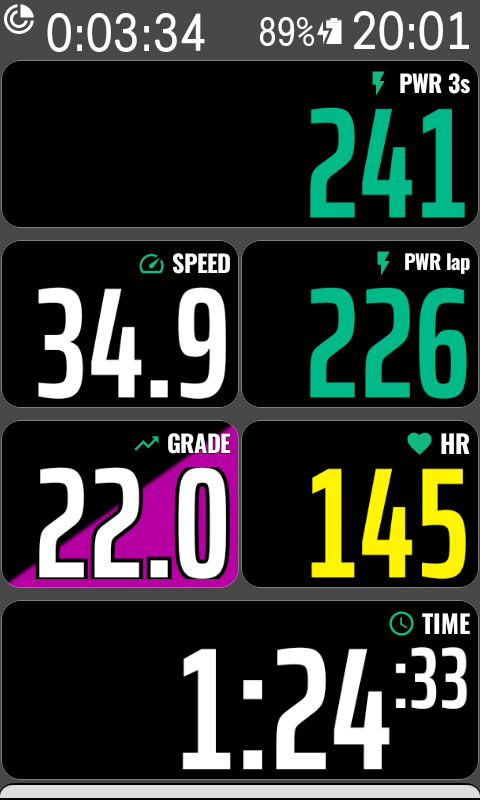
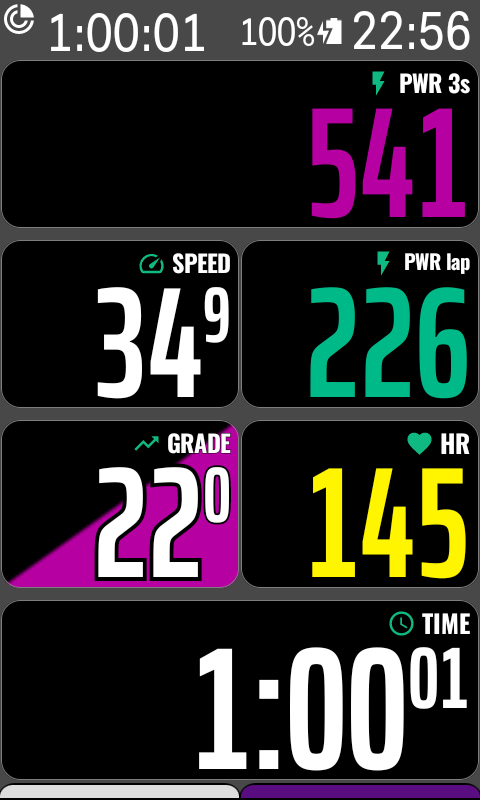
docs: fold the new work into 1.1.0, and reshoot at the defaults
1.1.0 was never tagged and lives only on this branch, so this belongs in that
entry rather than in a successor nobody would have anything to compare against.

Two claims in the README did not survive checking. "Around 20% taller" for the
demoted seconds is not true in general: measured on device, that field is
height-limited on a full-width tile, so raising the seconds took it from 365px
wide to 270px and left the height at 156px against 155px. The text now says
what actually happens, which depends on whether width or height is the binding
constraint. The elapsed-time section still described the old fixed behaviour
with the colon kept.

Screenshots are reshot at the defaults a fresh install gets, and the settings
were read back off the device before capturing rather than assumed.

The settings screen scrolling and the clipped wedge outline are deliberately
not listed as fixes: both were introduced and resolved inside this unreleased
version, so no rider ever met them. Development history, not release notes.

Claude-Session: https://claude.ai/code/session_0142tqkb3eEG9sx2Pt6EGNCy

diff --git a/CHANGELOG.md b/CHANGELOG.md
@@ -29,6 +29,31 @@ Karoo shows in its own update flow.
   flipping colour wholesale, which no single threshold could get right.
 - Turning zone colouring off now turns the grade wedge off too, on the reading that a rider who
   wants no colour means everywhere.
+- **Raised decimals.** A value's decimal, or a ride time's seconds, drawn small and raised --
+  34⁹ rather than 34.9, 1:34¹⁷ rather than 1:34:17 -- with the point or colon dropped, because the
+  raised digits already say what they are and the separator's width is width the number can have
+  instead. On by default, and it replaces the old fixed behaviour where elapsed time raised its
+  seconds and nothing else could.
+- The settings screen opens with a card in the Karoo's own style saying where to add the fields,
+  and scrolls now that there is more on it than fits a 480x800 screen.
+- A new icon: the app at icon size, a field card carrying one number with a raised decimal, drawn
+  from the bundled Saira's own outlines. The old one was a white square on a white list row,
+  which left three black bars floating with nothing around them.
+
+### Changed
+
+- **Time - Elapsed** reads h:mm:ss throughout, so the first hour of a ride shows 0:34:56 rather
+  than 34:56 and a clock that has not started reads 0:00:00 rather than a pair of dashes. The
+  field is sized against a "0:00:00" template either way, so the leading hour costs no room --
+  what it buys is a field that does not change shape the moment the ride passes an hour.
+- Each field's bitmap is now rasterised at the size it is displayed at, taken from the view size
+  Karoo reports, instead of one fixed size for every tile. Tiles range from 238x142 to 478x288,
+  so a single size was drawing about 1.7x more pixels than a half tile can show while stretching
+  1.6x on the largest one. Nothing moves on screen; a half-width field allocates and ships 42%
+  fewer bytes per update, and the largest tiles stop being upscaled.
+- Redundant redraws are dropped. Karoo sends a sample whether or not the value moved, and a
+  field whose displayed state is unchanged no longer draws a bitmap or crosses a process
+  boundary to say so.
 
 ### Notes
 
@@ -37,7 +62,8 @@ Karoo shows in its own update flow.
   under the SIL Open Font License 1.1; see [OFL.txt](OFL.txt).
 - A non-finite grade takes the lowest band and the floor wedge height rather than the loudest
   colour and an undefined path.
-- Fields other than Grade render exactly as before when no wedge is present.
+- The wedge is Grade's alone: every other field takes the same drawing path it always did, and
+  the wedge hook defaults to nothing.
 
 ## [1.0.1] - 2026-08-24
 

diff --git a/README.md b/README.md
@@ -58,10 +58,24 @@ Without a weight to divide by they show `--` rather than a number that would rea
 
 ### Elapsed time
 
-The seconds are drawn about half size and raised, so `1:34:17` reads as a large **1:34** with a
-small `:17` after it. Hours and minutes are what you read at a glance; the seconds only need to
-be present. Demoting them leaves the rest of the value around 20% taller than it would be if
-every character were the same size.
+Ride time reads `h:mm:ss` throughout — `0:04:59` in the first hour, `0:00:00` before the ride
+starts — so the field never changes shape mid-ride. It is sized against a `0:00:00` template
+either way, so the leading hour costs no room.
+
+With **Raised decimals** on, the seconds come out about half size and raised: `1:34:17` reads as
+a large **1:34** with a small `17` after it. Hours and minutes are what you read at a glance; the
+seconds only need to be present.
+
+### Raised decimals
+
+A setting, on by default, that draws the small end of a value small: a decimal, or a ride time's
+seconds. `34.9` becomes 34⁹, `1:34:17` becomes 1:34¹⁷. The point or colon is dropped, because
+raised digits already say what they are and the separator's width is width the number can have
+instead.
+
+What that width buys depends on the field. Most fields run out of width before they run out of
+height, and there the number comes out taller. Where height is the binding constraint — a wide
+tile with a short value — the number stays the same size and simply sits in more room.
 
 ### Zone coloring
 
